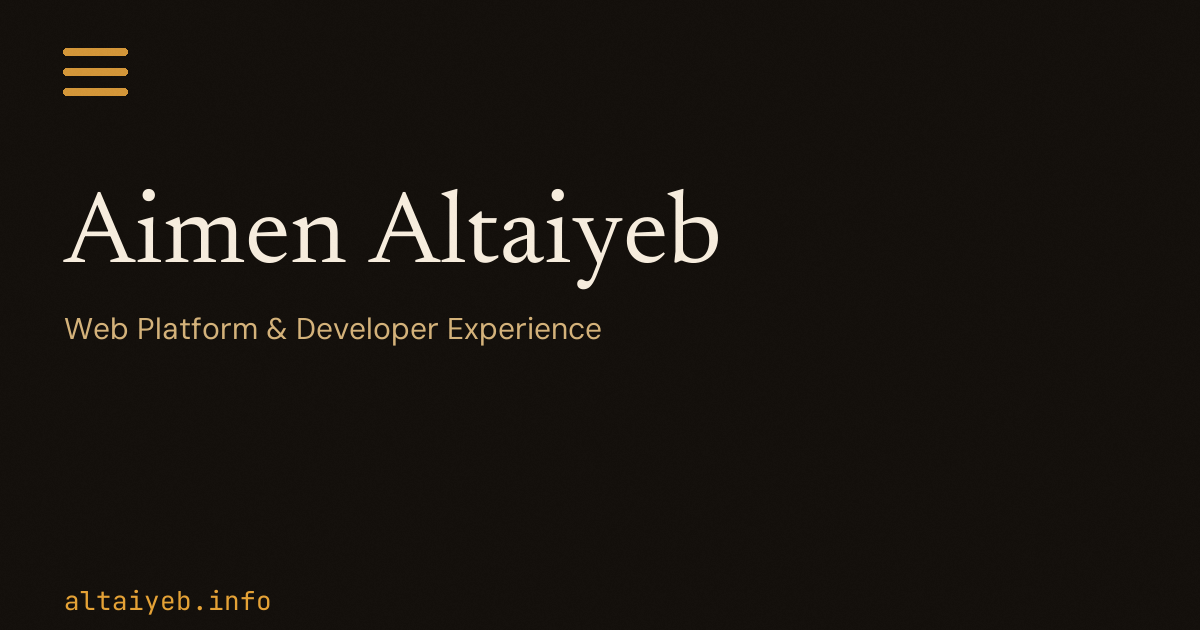
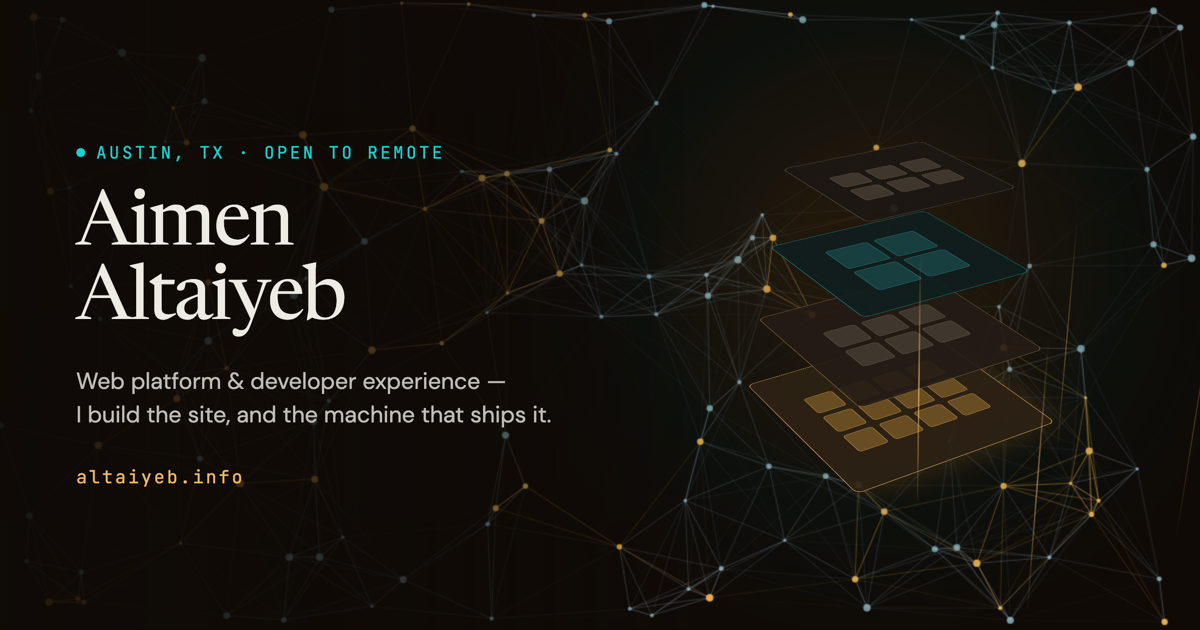
Replace the share card with the hero's own artwork so the unfurl reads as the site instead of a black rectangle.
The old card was a wordmark on near-black, which is what LinkedIn was showing.
This one reuses the four-layer stack over the dependency-graph mesh, and keeps
its source in tools/og-render.html so the copy can be resynced when the hero
changes.

Claude-Session: https://claude.ai/code/session_016wFWVZDrbpQA9qJye7LEew

diff --git a/tools/og-render.html b/tools/og-render.html
@@ -1,0 +1,253 @@
+<!DOCTYPE html>
+<html lang="en">
+<head>
+<meta charset="utf-8">
+<title>OG image render — 1200×630</title>
+<link rel="preconnect" href="https://fonts.googleapis.com">
+<link rel="preconnect" href="https://fonts.gstatic.com" crossorigin>
+<link href="https://fonts.googleapis.com/css2?family=Newsreader:ital,opsz,wght@0,6..72,400;1,6..72,400&family=DM+Sans:opsz,wght@9..40,400;9..40,500&family=JetBrains+Mono:wght@400;500&display=swap" rel="stylesheet">
+<style>
+  /* Render target for the social preview card. Not shipped — it exists so the
+     OG image is generated from the real design rather than drawn by hand.
+     Capture the .og element at 1200x630 and save as site/og-image.png. */
+  body { margin: 0; background: #0b0a09; display: grid; place-items: center; min-height: 100vh; }
+
+  .og {
+    position: relative;
+    width: 1200px;
+    height: 630px;
+    overflow: hidden;
+    background: oklch(0.15 0.012 62);
+    font-family: "DM Sans", system-ui, sans-serif;
+    color: oklch(0.94 0.008 82);
+  }
+
+  #mesh { position: absolute; inset: 0; }
+
+  .glow {
+    position: absolute;
+    right: -60px;
+    top: 42%;
+    width: 760px;
+    height: 760px;
+    margin: -380px 0 0 0;
+    border-radius: 50%;
+    background: radial-gradient(circle,
+      oklch(0.40 0.08 76 / 0.30) 0%,
+      oklch(0.30 0.06 196 / 0.12) 46%,
+      transparent 70%);
+  }
+
+  .copy {
+    position: absolute;
+    left: 76px;
+    top: 50%;
+    transform: translateY(-50%);
+    width: 560px;
+  }
+
+  .kicker {
+    font-family: "JetBrains Mono", monospace;
+    font-size: 17px;
+    letter-spacing: 0.16em;
+    text-transform: uppercase;
+    color: oklch(0.78 0.13 196);
+    margin: 0 0 26px;
+    display: flex;
+    align-items: center;
+    gap: 11px;
+  }
+  .kicker i { width: 9px; height: 9px; border-radius: 50%; background: oklch(0.78 0.13 196); display: block; }
+
+  h1 {
+    font-family: Newsreader, Georgia, serif;
+    font-weight: 400;
+    font-size: 76px;
+    line-height: 0.98;
+    letter-spacing: -0.025em;
+    margin: 0 0 26px;
+  }
+  h1 em { font-style: italic; color: oklch(0.82 0.12 76); }
+
+  .sub {
+    font-size: 23px;
+    line-height: 1.45;
+    color: oklch(0.80 0.01 78);
+    margin: 0 0 34px;
+    max-width: 21em;
+  }
+
+  .url {
+    font-family: "JetBrains Mono", monospace;
+    font-size: 18px;
+    letter-spacing: 0.12em;
+    color: oklch(0.82 0.12 76);
+    margin: 0;
+  }
+
+  /* The propagation stack, same geometry as the hero. */
+  .rig {
+    position: absolute;
+    right: -6px;
+    top: 64%;
+    width: 620px;
+    height: 620px;
+    margin-top: -310px;
+    perspective: 1500px;
+    perspective-origin: 50% 46%;
+  }
+  .stack {
+    position: absolute;
+    inset: 0;
+    transform-style: preserve-3d;
+    /* Scaled so the full four-plate stack sits inside the 630px card. */
+    transform: scale(0.74) rotateX(60deg) rotateZ(-32deg);
+  }
+  .beam {
+    position: absolute;
+    left: 50%; top: 50%;
+    width: 2px; height: 318px;
+    margin-left: -1px;
+    transform-origin: 50% 100%;
+    background: linear-gradient(to top,
+      oklch(0.82 0.12 76 / 0),
+      oklch(0.82 0.12 76 / 0.8),
+      oklch(0.82 0.12 76 / 0));
+  }
+  .b1 { transform: translate3d(-104px,-104px,0) rotateX(-90deg); opacity: 0.9; }
+  .b2 { transform: translate3d(104px,-104px,0) rotateX(-90deg); opacity: 0.45; }
+  .b3 { transform: translate3d(-104px,104px,0) rotateX(-90deg); opacity: 0.65; }
+  .b4 { transform: translate3d(104px,104px,0) rotateX(-90deg); opacity: 0.3; }
+
+  .plate { position: absolute; left: 50%; top: 50%; border-radius: 10px; }
+  .plate-1 {
+    width: 300px; height: 300px; margin: -150px 0 0 -150px;
+    transform: translateZ(0);
+    border: 1px solid oklch(0.74 0.11 76);
+    background: oklch(0.26 0.030 76 / 0.92);
+    box-shadow: 0 0 60px oklch(0.60 0.10 76 / 0.28);
+  }
+  .plate-2 {
+    width: 268px; height: 268px; margin: -134px 0 0 -134px;
+    transform: translateZ(106px);
+    border: 1px solid oklch(0.52 0.06 76);
+    background: oklch(0.23 0.018 68 / 0.9);
+  }
+  .plate-3 {
+    width: 236px; height: 236px; margin: -118px 0 0 -118px;
+    transform: translateZ(212px);
+    border: 1px solid oklch(0.56 0.09 196);
+    background: oklch(0.22 0.022 196 / 0.9);
+  }
+  .plate-4 {
+    width: 204px; height: 204px; margin: -102px 0 0 -102px;
+    transform: translateZ(318px);
+    border: 1px solid oklch(0.44 0.01 74);
+    background: oklch(0.21 0.012 62 / 0.9);
+  }
+
+  .cells { position: absolute; display: grid; gap: 10px; justify-content: center; align-content: center; }
+  .cells i { border-radius: 5px; background: oklch(0.34 0.02 70); border: 1px solid oklch(0.44 0.03 70); }
+  .plate-1 .cells { inset: 47px; grid-template-columns: repeat(4,44px); grid-auto-rows: 44px; }
+  .plate-1 .cells i { background: oklch(0.44 0.07 76); border-color: oklch(0.62 0.09 76); }
+  .plate-2 .cells { inset: 52px; grid-template-columns: repeat(3,48px); grid-auto-rows: 48px; }
+  .plate-3 .cells { inset: 51px; grid-template-columns: repeat(2,62px); grid-auto-rows: 62px; }
+  .plate-3 .cells i { background: oklch(0.34 0.045 196); border-color: oklch(0.50 0.07 196); }
+  .plate-4 .cells { inset: 32px; grid-template-columns: repeat(3,40px); grid-auto-rows: 40px; }
+
+  /* Vignette keeps the mesh from competing with the headline. */
+  .vig {
+    position: absolute; inset: 0;
+    background: linear-gradient(90deg,
+      oklch(0.15 0.012 62 / 0.92) 0%,
+      oklch(0.15 0.012 62 / 0.72) 34%,
+      transparent 58%);
+  }
+</style>
+</head>
+<body>
+
+<div class="og">
+  <canvas id="mesh" width="1200" height="630"></canvas>
+  <div class="glow"></div>
+
+  <div class="rig">
+    <div class="stack">
+      <span class="beam b1"></span><span class="beam b2"></span>
+      <span class="beam b3"></span><span class="beam b4"></span>
+      <div class="plate plate-1"><div class="cells"></div></div>
+      <div class="plate plate-2"><div class="cells"></div></div>
+      <div class="plate plate-3"><div class="cells"></div></div>
+      <div class="plate plate-4"><div class="cells"></div></div>
+    </div>
+  </div>
+
+  <div class="vig"></div>
+
+  <div class="copy">
+    <p class="kicker"><i></i>Austin, TX · open to remote</p>
+    <h1>Aimen<br>Altaiyeb</h1>
+    <p class="sub">Web platform &amp; developer experience —<br>I build the site, and the machine that ships it.</p>
+    <p class="url">altaiyeb.info</p>
+  </div>
+</div>
+
+<script>
+// Cell counts mirror the hero exactly.
+const COUNTS = [12, 6, 4, 6];
+document.querySelectorAll('.plate .cells').forEach((el, i) => {
+  el.innerHTML = '<i></i>'.repeat(COUNTS[i]);
+});
+
+/* Seeded mesh so every regeneration of this card is identical. Same visual
+   language as the live ambient canvas: gold and cool nodes, edges fading with
+   distance, denser than the live version because this is a still. */
+(function () {
+  let seed = 20260912;
+  const rand = () => {
+    seed = (seed * 1664525 + 1013904223) % 4294967296;
+    return seed / 4294967296;
+  };
+
+  const c = document.getElementById('mesh');
+  const ctx = c.getContext('2d');
+  const W = 1200, H = 630;
+  const LINK = 168;
+
+  const nodes = [];
+  for (let i = 0; i < 150; i++) {
+    nodes.push({
+      x: rand() * W,
+      y: rand() * H,
+      r: 1.5 + rand() * 2.4,
+      gold: rand() < 0.42
+    });
+  }
+
+  ctx.lineWidth = 1;
+  for (let i = 0; i < nodes.length; i++) {
+    for (let k = i + 1; k < nodes.length; k++) {
+      const a = nodes[i], b = nodes[k];
+      const dx = a.x - b.x, dy = a.y - b.y;
+      const d = Math.sqrt(dx * dx + dy * dy);
+      if (d > LINK) continue;
+      const t = 1 - d / LINK;
+      ctx.strokeStyle = (a.gold && b.gold)
+        ? 'rgba(226,168,66,' + (t * 0.80).toFixed(3) + ')'
+        : 'rgba(156,182,202,' + (t * 0.46).toFixed(3) + ')';
+      ctx.beginPath();
+      ctx.moveTo(a.x, a.y);
+      ctx.lineTo(b.x, b.y);
+      ctx.stroke();
+    }
+  }
+  for (const n of nodes) {
+    ctx.fillStyle = n.gold ? 'rgba(238,180,78,0.95)' : 'rgba(160,208,222,0.72)';
+    ctx.beginPath();
+    ctx.arc(n.x, n.y, n.r, 0, Math.PI * 2);
+    ctx.fill();
+  }
+})();
+</script>
+</body>
+</html>

diff --git a/index.html b/index.html
@@ -17,7 +17,9 @@
   <meta property="og:image" content="https://altaiyeb.info/og.png" />
   <meta property="og:image:width" content="1200" />
   <meta property="og:image:height" content="630" />
-  <meta property="og:image:alt" content="Aimen Altaiyeb — Web Platform &amp; Developer Experience" />
+  <meta property="og:image:type" content="image/png" />
+  <meta property="og:image:alt"
+    content="Aimen Altaiyeb — web platform and developer experience. A four-layer propagation stack over a drifting dependency-graph mesh." />
   <meta name="twitter:card" content="summary_large_image" />
   <meta name="twitter:image" content="https://altaiyeb.info/og.png" />
   <meta name="theme-color" content="#1b1712" />
